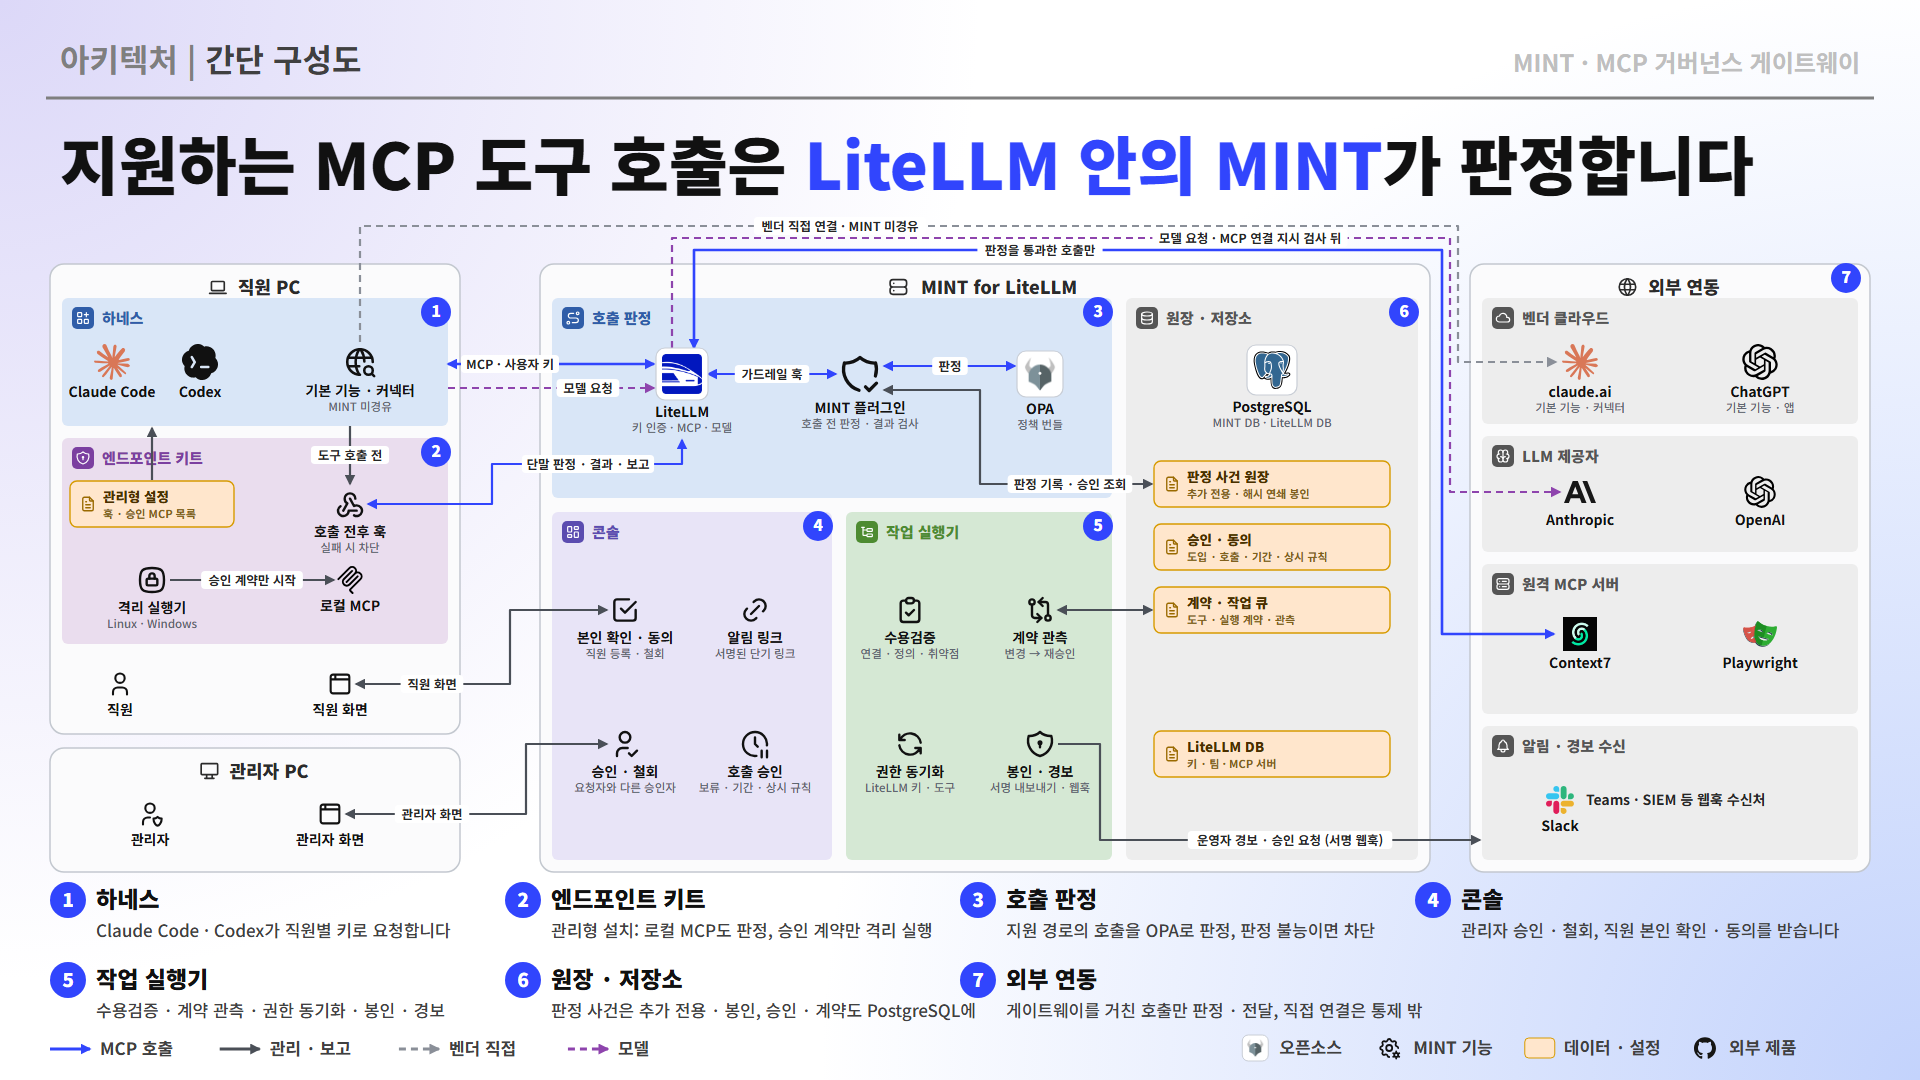
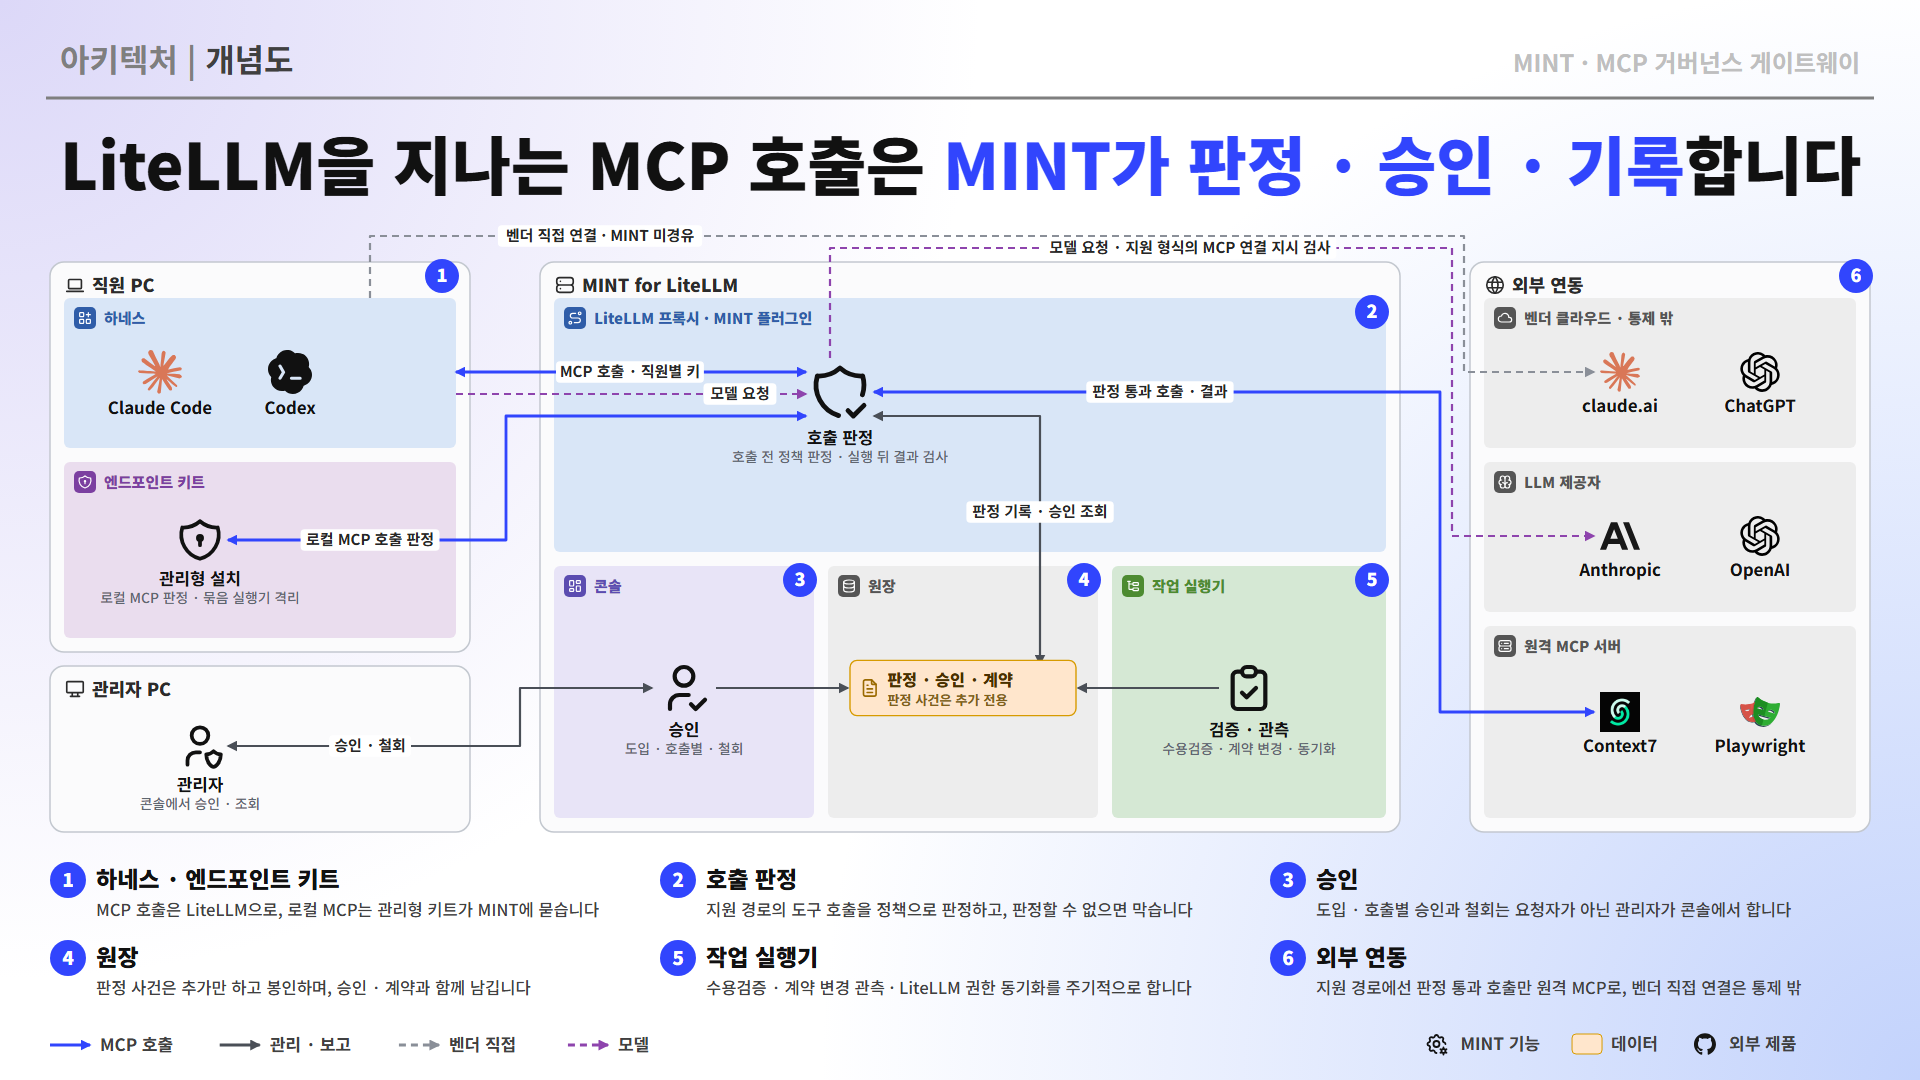
docs: README 그림을 개념도로 바꾼다
간단 구성도보다 한 단계 더 줄인 개념도(오픈소스 구성요소 없이 MINT 기능 네 개와
하네스·관리자·외부 연동만)를 README 맨 위에 둔다.

diff --git a/README.md b/README.md
@@ -4,7 +4,7 @@ MINT for LiteLLM은 AI 에이전트가 MCP(Model Context Protocol)를 통해 외
 
 MCP는 Claude Code, Codex 등의 AI 에이전트가 파일 시스템, 개발 도구, 데이터베이스, 외부 API와 상호작용할 수 있도록 지원합니다. 이를 통해 AI 에이전트는 정보 조회뿐 아니라 파일 수정, 코드 실행, 외부 서비스 호출과 같은 실제 작업을 수행할 수 있습니다.
 
-![MINT for LiteLLM 간단 구성도](docs/images/architecture.png)
+![MINT for LiteLLM 개념도](docs/images/architecture.png)
 
 - 도입 수용검증 → 승인 → 호출 판정 → 변경 재승인 → 종료 판정 → 원장
 - LiteLLM의 인증·전송·자격 저장·속도 제한은 그대로 쓰고, 그 위에 승인과 정책 판정을 더합니다.
